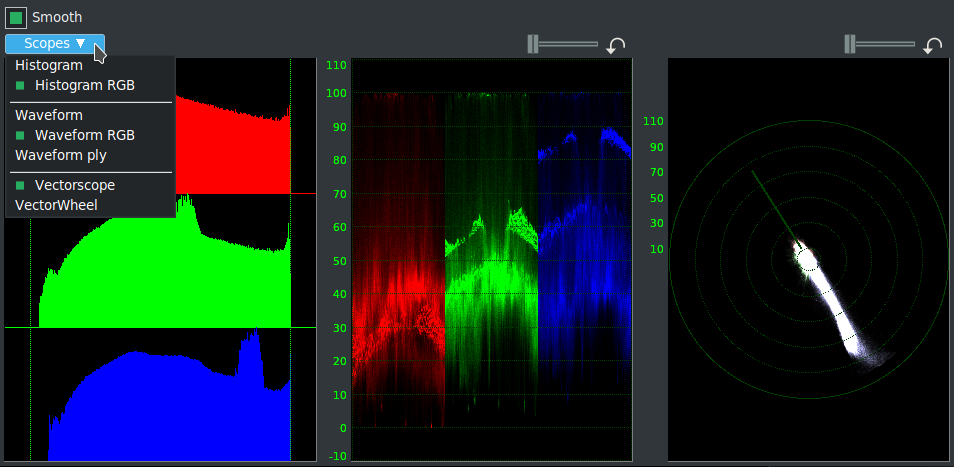
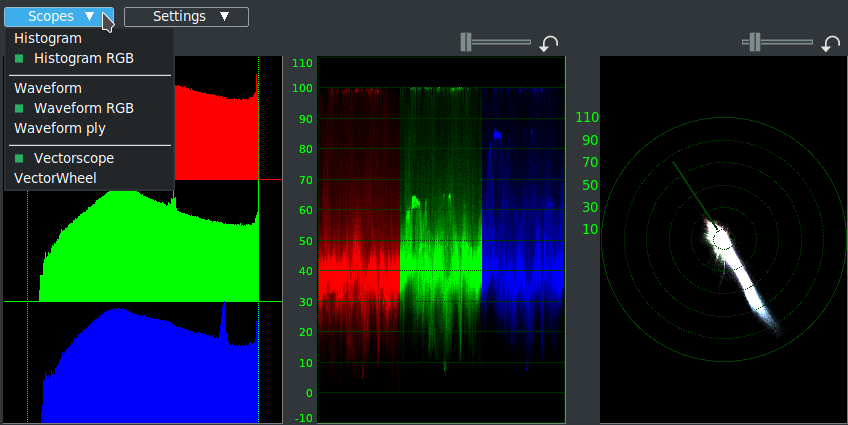
Andrea updated Videoscope; a few other fixes

diff --git a/parts/Plugins.tex b/parts/Plugins.tex
@@ -2857,36 +2857,92 @@ This effect applies a traditional \textit{darkroom} technique, the so called \te
 \subsection{Videoscope}%
 \label{sub:videoscope}
 
-Videoscope summarizes intensity and color on a calibrated display. The Videoscope can be used in conjunction with other \CGG{} plugins such as \textit{Color 3 Way}, \textit{YUV}, \textit{Brightness}, \textit{Color Balance} or \textit{Histogram} to accurately correct video for contrast, clarity, conformance (to normalize various videos shot under different light settings), or for cinematic purposes. The human eye is not specialized to match precise level of light and color, but Videoscope is. Videoscope contains three displays: the waveform scope and the vectorscope, plus the histograms (figure~\ref{fig:videoscope01}). Instead of applying the plugin to the tracks/edits we want to examine, we can use the Videoscope button in the Composer and Viewer windows. The Videoscope menu window has many options. From the pulldown menu (\textit{Scopes}) we can choose between two histograms (Histogram and Histogram RGB); three waveforms (Waveform, Waveform RGB and Waveform Ply) and two vectorscopes (Vectorscope and VectorWheel). The \textit{Smooth} checkbox serves to make the graph more homogeneous while the \textit{sliders} allow for varying the 'solidity' of the dots shown. You can get to the subpixel
-level for precision.
+Videoscope summarizes intensity and color on a calibrated display. The Videoscope can be used in conjunction with other \CGG{} plugins such as \textit{Color 3 Way}, \textit{YUV}, \textit{Brightness}, \textit{Color Balance} or \textit{Histogram} to accurately correct video for contrast, clarity, conformance (to normalize various videos shot under different light settings), or for cinematic purposes. The human eye is not specialized to match precise level of light and color, but Videoscope is. Videoscope contains three displays: the waveform scope and the vectorscope, plus the histograms (figure~\ref{fig:videoscope01}). Instead of applying the plugin to the tracks/edits we want to examine, we can use the Videoscope buttons in the Composer and Viewer windows. \includegraphics[height=\baselineskip]{scope.png} In this way the monitors act on the frame indicated by the insertion point, without taking into account the stack of tracks or on which edits to apply the plugin.
+
+The Videoscope menu window has many options.
+
+\paragraph*{Scopes:} we can choose between two histograms:
+
+\begin{itemize}[noitemsep]
+	\item \textit{Histogram}
+	\item \textit{Histogram RGB}
+\end{itemize}
+three waveforms: 
+\begin{itemize}[noitemsep]
+	\item \textit{Waveform}
+	\item \textit{Waveform RGB} (aka RGB Parade)
+	\item \textit{Waveform Ply} (which superimposes the three Waveform RGB graphs in a single view.)
+\end{itemize}
+and two vectorscopes: 
+\begin{itemize}[noitemsep]
+	\item \textit{Vectorscope}
+	\item \textit{VectorWheel}
+\end{itemize}
 
 \begin{figure}[hbtp]
-    \centering
-    \includegraphics[width=1.0\linewidth]{videoscope01.png}
-    \caption{GUI of the Videoscope. You see Histogram, RGB Parade and Vectorscope}
-    \label{fig:videoscope01}
+	\centering
+	\includegraphics[width=1.0\linewidth]{videoscope01.png}
+	\caption{GUI of the Videoscope. You see Histogram, RGB Parade and Vectorscope}
+	\label{fig:videoscope01}
 \end{figure}
+
+\paragraph*{Settings:} It is divided into two sections. The upper section contains two items:
+
+\begin{description}
+	\item[Smooth:] serves to make the graph more homogeneous, improving its visualization.
+	\item[Refresh on Stop:] is used to block frame monitoring during playback. Since videoscopes are heavy on the system, it is advisable to deactivate them during playback and reactivate them only when we have chosen the frame to examine.
+\end{description}
+
+ The lower section, called \textit{VectorWheel Grids}, it is only active when VectorWheel is set up in Scopes pull-down and contains four entries (figure~\ref{fig:videoscope06}):
+ 
+ \begin{description}
+ 	\item[None:] It only shows the colour wheel, without any superimposed graticula.
+ 	\item[All:] Shows the most complete grid that allows precise and useful measurements. It also shows the skintones area.
+ 	\item[Hue:] Show a more minimal grid.  It also shows the I-Line.
+ 	\item[IQ:] Show shows only I-Line and Q-Line.
+ \end{description}
+
+\begin{figure}[hbtp]
+	\centering
+	\includegraphics[width=1.0\linewidth]{videoscope06.png}
+	\caption{Pull-down Settings}
+	\label{fig:videoscope06}
+\end{figure}
+
+You can create custom grids. These are raster .png images of adequate resolution and must be put in:
+
+\begin{lstlisting}[style=sh]
+[your cinelerra path]/bin/plugins/scopes/custom_grid.png
+\end{lstlisting}
+
+More information in the later section on Vectorscope.
+
+\paragraph*{Sliders:} allow for varying the \textit{solidity} of the dots shown in Waveforms and Vectorscope. You can get to the subpixel level for precision. They are accompanied by Reset buttons that restore them to default values.
+
+
 
 \subsubsection*{Waveform/RGB Parade/Waveform Ply}%
 \label{ssub:waveform_rgb_parade_ply}
 
-The \textit{Waveform Scope} displays image intensity (luminance) versus image $X$ position. The \textit{Waveform RGB} (or RGB Parade) displays image RGB intensity versus image $X$ position (one graph per channel). The \textit{Waveform Ply} shows the three channels in a single graph. The Waveform Scope appears on the left side or in the middle of the Videoscope window. The display is calibrated vertically from $0\%$ intensity (black) at the bottom up to $100\%$ intensity (white) at the top. Each column of pixels in the image corresponds to one column of pixels in the Waveform Scope (figure~\ref{fig:videoscope02}). Note that the height of the values of a waveform/RGB Parade corresponds exactly to the values on the $x\, axis$ in the \textit{histogram}. A vertical/horizontal correspondence is therefore obtained.
+The \textit{Waveform Scope} displays image intensity (luminance) versus image $X$ position. The \textit{Waveform RGB} displays image RGB intensity versus image $X$ position (one graph per channel). The \textit{Waveform Ply} shows the three channels in a single graph. The Waveform Scope appears on the left side or in the middle of the Videoscope window. The display is calibrated vertically from $0\%$ intensity (black) at the bottom up to $100\%$ intensity (white) at the top. Each column of pixels in the image corresponds to one column of pixels in the Waveform Scope (figure~\ref{fig:videoscope02}). Note that the height of the values of a waveform/waveform RGB corresponds exactly to the values on the $x\, axis$ in the \textit{histogram}. A vertical/horizontal correspondence is therefore obtained.
 
 \begin{figure}[hbtp]
     \centering
     \includegraphics[width=1.0\linewidth]{videoscope02.png}
-    \caption{Colortest 75\% with RGB Parade (left) and Waveform (right)}
+    \caption{Colortest 75\% with Waveform RGB (left) and Waveform (right)}
     \label{fig:videoscope02}
 \end{figure}
 
-On the left is shown RGB Parade: instead of the color shadows as in figure~\ref{fig:videoscope01}, we have lines representing the color bar test at $75\%$. They are pure colors, so all pixels have the same value. In fact, they are all at the level of $75\%$ except for the $100\%$ white band and the $0\%$ black band. In the waveform on the right, we have the same behavior with regard to luminance: the white band is $100\%$; the black band is $0\%$ and all the others $75\%$.
+On the left is shown waveform RGB: instead of the color shadows as in figure~\ref{fig:videoscope01}, we have lines representing the color bar test at $75\%$. They are pure colors, so all pixels have the same value. In fact, they are all at the level of $75\%$ except for the $100\%$ white band and the $0\%$ black band. In the waveform on the right, we have the same behavior with regard to luminance: the white band is $100\%$; the black band is $0\%$ and all the others $75\%$.
 
-The Waveform scope helps correct image light levels for contrast range or for conforming light levels on various scenes originally shot on different light settings (figure~\ref{fig:videoscope03}). The same can be done with RGB Parade or the convenient overlapping representation (Waveform Ply).
+If we left-click on the graph with the mouse, we will see a crosshair that we can place exactly where we want to measure. We can read the precise values of X and Luminance (Value) in the pop-up box that appears at the bottom right (figure~\ref{fig:videoscope03}).
+
+The Waveform scope helps correct image light levels for contrast range or for conforming light levels on various scenes originally shot on different light settings. The same can be done with Waveform RGB or the convenient overlapping representation (Waveform Ply).
 
 \begin{figure}[hbtp]
     \centering
     \includegraphics[width=1.0\linewidth]{videoscope03.png}
-    \caption{Examples of waveform, waveform RGB and waveform Ply}
+    \caption{Examples of waveform (with crosshair and the coordinates' box), waveform RGB and waveform Ply}
     \label{fig:videoscope03}
 \end{figure}
 
@@ -2895,10 +2951,10 @@ The Waveform scope helps correct image light levels for contrast range or for co
 
 \begin{enumerate}
     \item Add the \textit{Brightness/Contrast}, \textit{Histogram}, \textit{Color 3 Way} or another video adjustment effect on your track/edit.
-    \item Add the Videoscope effect on the track below. Make sure that it is placed below so it can see the adjustment effect's results. If it is not, right-click and move it down. Or do not use the plugin but activate the Videoscope button in the Compositor window.
+    \item Add the Videoscope effect on the track. Make sure that it is placed below in the stack of effects, so it can see the adjustment effect's results. If it is not, right-click and move it down. Or do not use the plugin but activate the Videoscope button in the Compositor window.
     \item Show both the effect and Videoscope.
     \item Adjust the contrast while observing the waveform to match the desired light level.
-    \item Precise adjustments can be made by measuring the values on the waveform with the crosshair (by clicking LMB, and reading numeric values on top left of the window) and reporting these numbers in the effects window (\textit{Histogram Bézier}, for example).
+    \item Precise adjustments can be made by measuring the values on the waveform with the crosshair (by clicking LMB, and reading numeric values on the pop-up box) and reporting these numbers in the effects window (\textit{Histogram Bézier}, for example).
 \end{enumerate}
 
 For example, if you are looking for maximum contrast range, adjust the \textit{Brightness/Contrast} levels to align the darkest point on the scope with the $0\%$ level and the brightest portion with $100\%$. Anything above $100\%$ is over saturated. Limits may be highlighted with checkbox controls.
@@ -2921,21 +2977,16 @@ If you are producing a video for NTSC television broadcast, keep the intensity b
 \subsubsection*{Vectorscope}%
 \label{ssub:Vectorscope}
 
-The Vectorscope displays \textit{hue} (angle on the color wheel) and \textit{saturation} (radius). Each pixel in the source image is drawn as a point on the color wheel. The distance from the center is the color saturation. Gray values are close to the center, and high saturation values are near the perimeter ($100\%$). In the center there is pure white ($0\%$). By clicking with the mouse on the color wheel a radius and circle 
-will appear whose values of hue and saturation are shown at the top left of the window, similar to the values of $X$ and luminance of the Waveform and RGB Parade (figure~\ref{fig:videoscope05}).
+The Vectorscope displays \textit{hue} (angle on the color wheel) and \textit{saturation} (radius). Each pixel in the source image is drawn as a point on the color wheel. The distance from the center is the color saturation. Gray values are close to the center, and high saturation values are near the perimeter ($100\%$). In the center there is pure white ($0\%$). By clicking with the mouse on the color wheel a radius and circle will appear whose values of hue and saturation are shown in the  pop-up box at the bottom right of the window, similar to the values of $X$ and luminance of the Waveform and RGB Parade (figure~\ref{fig:videoscope05}).
 
 \begin{figure}[hbtp]
 	\centering
-	\includegraphics[width=0.9\linewidth]{videoscope05.png}
-	\caption{Vectorscope (with I-Line) and VectorWheel (with IQ-Hue-Tics reticule)}
+	\includegraphics[width=0.8\linewidth]{videoscope05.png}
+	\caption{Vectorscope (with H/S pop-up box) and VectorWheel (with 3 default grids)}
 	\label{fig:videoscope05}
 \end{figure}
 
-Note that when you choose \textit{VectorWheel} from \textit{Scopes} pulldown, the \textit{Overlay} pulldown
-appears where you can choose between different grids. In addition, any number of user-supplied grid patterns
-can be added in the form of a square image of type png.  The user can design and maintain individual grid
-overlays for various purposes.  The user would keep their overlays in a safe spot on their disk and make
-a copy of them in the \{cinelerra\_pathname\}/bin/plugins/scopes every time a new version of \CGG{} is installed.
+Note that when you choose \textit{VectorWheel} from \textit{Scopes} pulldown, you can choose between different grids in the \textit{Settings} pulldown. In addition, any number of user-supplied grid patterns can be added in the form of a square image of type png.  The user can design and maintain individual grid overlays for various purposes.  The user would keep their overlays in a safe spot on their disk and make a copy of them in the \texttt{\{cinelerra\_pathname\}/bin/plugins/scopes} every time a new version of \CGG{} is installed.
 
 Generally the Vectorscope has the following uses:
 
@@ -2952,7 +3003,7 @@ Generally the Vectorscope has the following uses:
 \begin{figure}[hbtp]
     \centering
     \includegraphics[width=0.9\linewidth]{videoscope04.png}
-    \caption{Balancing a yellow dominace tint}
+    \caption{Balancing a yellow color cast}
     \label{fig:videoscope04}
 \end{figure}
 

diff --git a/parts/Windows.tex b/parts/Windows.tex
@@ -137,7 +137,8 @@ The Track Menu contains a number of options:
     \item[Move down]  moves the selected track one step down in the stack of its corresponding type - audio or video.
     \item[Delete track]  removes the track from the timeline.
     \item[Add Track]  adds a track of the same media type as the one selected, audio or video, above the selected track.
-    \item[Find in Resources]  that media file will be highlighted in the media folder in the Resources window.
+    \item[Find in Resources]  that media file will be highlighted in the media folder in the Resources window. If the 
+	Resources window is closed, media is found and highlighted but the Resources window is not displayed.
     \item[Show edit]  will point out the exact start and stop points along with the length of the current edit on
         that track as well as the media name, track name and number, and edit number.
     \item[User title]  is used to change the title name.  This is really handy for files that have very long and
@@ -254,7 +255,7 @@ If only the Out point is set, when you click the Out point icon the Out point wi
 Holding the Shift key while clicking on an In/Out point, the area between the insertion point and that
 In/Out point will be highlighted or extended to that In/Out point if already highlighted. 
 
-An easy way to turn off the In/Out points if both are set, is to double click on the [ icon. 
+An easy way to turn off the In/Out points if both are set, is to double click on the ] icon in the toolbar. 
 If you have already set the In and Out points, and then move the insertion point anywhere to the left of
 the Out point, a LMB click on the [ icon will move the In point to the location of the insertion point.  In the same
 manner if you move the insertion point anywhere to the right of the In point, a LMB click on the ] icon

diff --git a/parts/Developer.tex b/parts/Developer.tex
@@ -518,9 +518,15 @@ Key in: \qquad \texttt{prof2}
 
 Key in: \qquad \texttt{make clean all install}
 
-Later, if you wanttitle to remove this from the system,
+Because \textit{smap} may have to be found in the system if \textit{How to use} below does not work, you will have to do the following:
+\newline
+\newline
+Key in: \qquad \texttt{cp -a smap /usr/local/bin}
 
-key in: \qquad \texttt{make uninstall}
+
+Later, if you want to remove this from the system,
+
+Key in: \qquad \texttt{make uninstall}
 
 \subsection{How to use}
 \label{sub:how_to_use}

diff --git a/parts/Editing.tex b/parts/Editing.tex
@@ -819,7 +819,8 @@ than what is available at that location it will not allowed.
 Attaching transitions to multiple selected edits via the Video or
 Audio pulldowns is also available.  The new transitions are attached
 at the start of the edits, and will replace any existing attached
-transitions.
+transitions.  As a side note, when in drag and drop mode the end
+transition does not drag.
 
 \subsection{Grouping edits}%
 \label{sub:grouping_edits}
